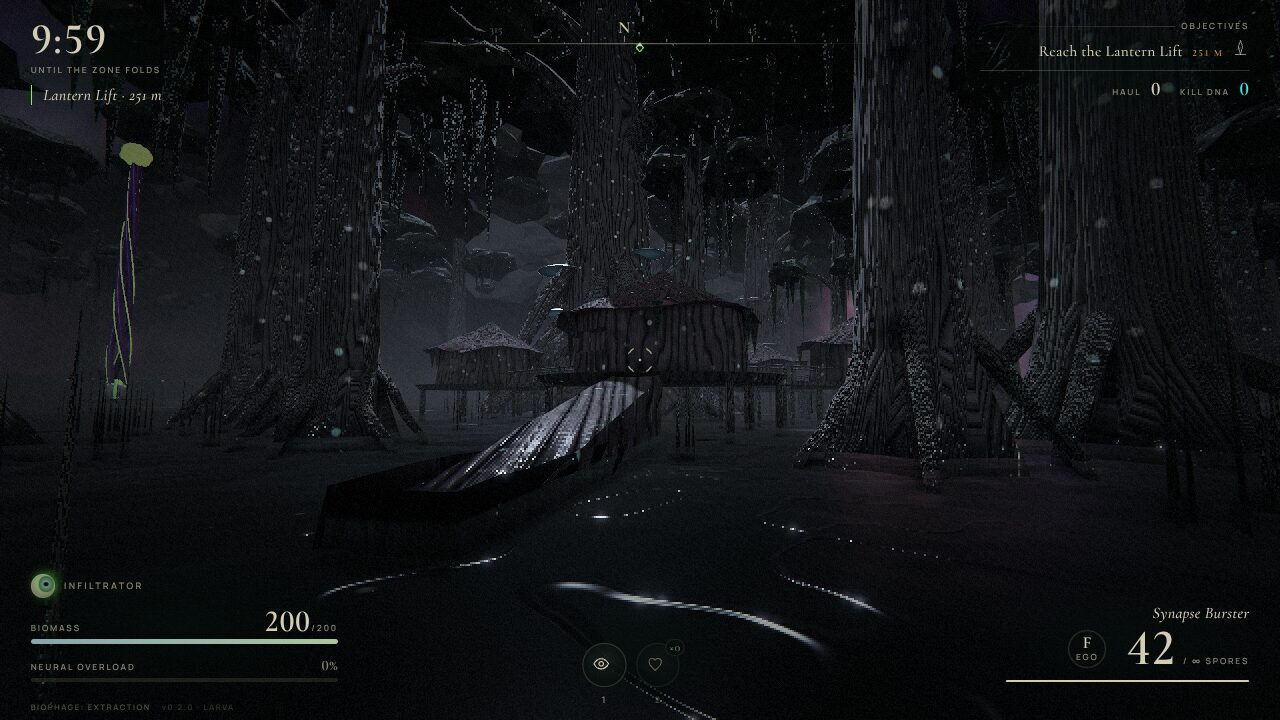
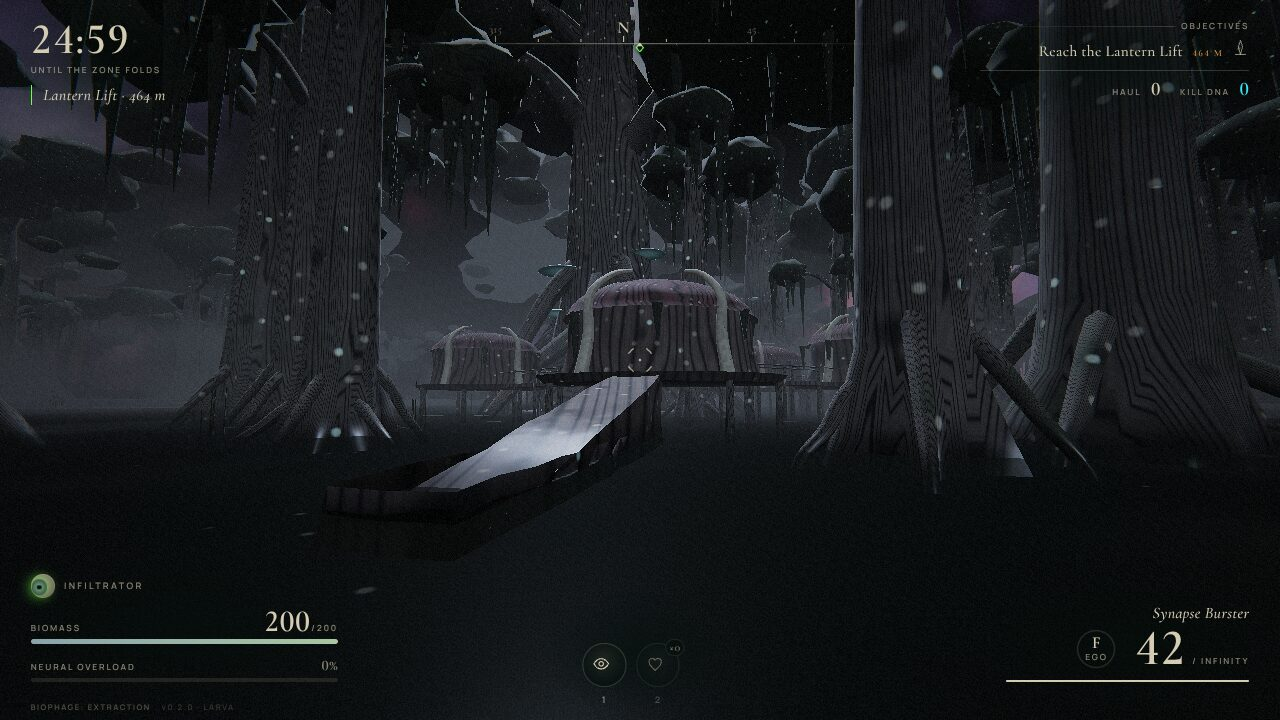
Weeping Fen: stilt huts and the Root Hut become grown, lived-in rooms (#158)
* Weeping Fen: organic pass and brighter light

Walls, decks and posts are rounded, bulged and flared at the base; stilt
platforms have noisy rims; roofs sag between ribs with drooping eaves;
the Regent's Pool arches are bent, knuckled bone spines in weathered
bone. Stronger hemisphere and moon light.

Claude-Session: https://claude.ai/code/session_01Y5Bov4Sf17Ztaq1LjiDfQm

* Weeping Fen: Mushroom Cathedral climb

The Great Spire: shelf-fungus brackets spiral up a giant cap-tree to a
gallery cap at 14 m; a gill bridge slopes down to the Chapel cap on a
second stalk. Webs and egg sacs between the stalks (the Tithe Weavers'
home). Two new loot spots. Walk test climbs the stair and crosses the
bridge; fenCathedral look-dev pose.

Claude-Session: https://claude.ai/code/session_01Y5Bov4Sf17Ztaq1LjiDfQm

* Weeping Fen: grow to Design's 380 m ring

Nine outer districts round the original heart (Titan Gate, Ghost
Orchard, Drowned Causeway, Pale Wallows, Bonewater, The Outflow, East
Tangle, Grey Hummock, North Deep) built from named titans, groves,
islets, channels and log bridges. Extracts move to the edges and a
third (The Outflow) opens at 6 min. Trails from the landing to each
extract stay clear of trees; the walk test follows them. Far wall trees
are drawn lite and reeds scale with radius to keep the cost down.

Claude-Session: https://claude.ai/code/session_01Y5Bov4Sf17Ztaq1LjiDfQm

* Weeping Fen: points of interest in the outer districts
[…]

diff --git a/src/world/weepingfen.ts b/src/world/weepingfen.ts
@@ -10,7 +10,9 @@ import FEN_JSON from '../../data/weepingfen.json';
 import { RAID } from '../../data';
 import { mulberry32 } from './rng';
 import type { Collider } from './collision';
-import { oldBone, type BuiltStructures, type LootSpot } from './structures';
+import { Kit, oldBone, type BuiltStructures, type LootSpot } from './structures';
+import { casket, dressHall, grownHall, hallLight, remainsMesh, sacMesh, urnMesh, worldAt, curtainHalf, type HallOptions } from './buildings';
+import { LivingProps } from './life';
 import type { SiteDressing } from './sites';
 import type { ExtractSite, PodSite, Site, SpawnPlacement, Zone7Layout } from './layout';
 import { SOLIDS, setTerrain } from './zone7';
@@ -374,6 +376,17 @@ export function buildWeepingFen(scene: THREE.Scene, seed: number): FenWorld {
   const mossMass = fenBark({ base: ZONE7_SHADE.moss, deep: ZONE7_SHADE.rockDeep, scale: 1.6 });
   const plank = fenBark({ base: ZONE7_SHADE.stem, deep: ZONE7_SHADE.rockDeep, plank: true, mossy: 0.6, scale: 1.4 });
   const hide = fenBark({ base: ZONE7_SHADE.flesh, deep: ZONE7_SHADE.rockDeep, mossy: 0.8, scale: 2.2 });
+  // Grown rooms (World's hall kit) in the fen's own skin: woven staves for walls, hide for the dome, old bone ribs.
+  // Seen from inside too, so their own two-sided copies.
+  const hallMats = {
+    wall: Object.assign(fenBark({ base: ZONE7_SHADE.stem, deep: ZONE7_SHADE.rockDeep, plank: true, mossy: 0.6, scale: 1.4 }), { side: THREE.DoubleSide }),
+    shell: Object.assign(fenBark({ base: ZONE7_SHADE.flesh, deep: ZONE7_SHADE.rockDeep, mossy: 0.8, scale: 2.2 }), { side: THREE.DoubleSide }),
+    bone: ribBone,
+  };
+  // Things that move inside the rooms: sacs swing, curtains part, urns topple (World's LivingProps).
+  const life = new LivingProps(SOLIDS);
+  root.add(life.group);
+  let hutCount = 0;
   const bone = oldBone(ZONE7.cyan, 0.12);
   const caps = fungusCap(ZONE7.cyan);
   const amber = bioNode(ORGANIC.amber, 0.7);
@@ -624,7 +637,7 @@ export function buildWeepingFen(scene: THREE.Scene, seed: number): FenWorld {
       for (const [y0, y1] of bands) {
         batch.add(bark, trunkGeometry(Rout, elder.height, elder.roots, 13, { y0, y1, theta: [Math.PI / 2 - a0 - seg, seg + 0.01], flare: 0, radial: 3 }), M4(ex, base, ez));
         const inner = new THREE.CylinderGeometry(Rin, Rin, y1 - y0, 3, 2, true, Math.PI / 2 - a0 - seg, seg + 0.01);
-        batch.add(plank, inner, M4(ex, base + (y0 + y1) / 2, ez));
+        batch.add(hallMats.wall, inner, M4(ex, base + (y0 + y1) / 2, ez));
         const mid = (Rin + Rout) / 2;
         solid(null, null, ex + Math.cos(a) * mid, ez + Math.sin(a) * mid, (Rout - Rin) / 2 + 0.1, mid * Math.tan(seg / 2) + 0.15, a, base + y0, base + y1, 0, 'elder-wall');
       }
@@ -675,6 +688,24 @@ export function buildWeepingFen(scene: THREE.Scene, seed: number): FenWorld {
     solid(batch, plank, ex - Math.cos(doorA) * 3.4, ez - Math.sin(doorA) * 3.4, 1.1, 0.6, doorA + Math.PI / 2, base, base + 0.9, 0, 'elder-table');
     loot.push({ id: 'roothut-room', container: lootContainer('roothut-room'), x: ex + Math.cos(doorA + 1.6) * 3, y: base + 0.15, z: ez + Math.sin(doorA + 1.6) * 3 });
     loot.push({ id: 'roothut-lookout', container: lootContainer('roothut-lookout'), x: ex + Math.cos(upperA + Math.PI) * 3, y: base + rh.deck, z: ez + Math.sin(upperA + Math.PI) * 3 });
+    // Lived in (World's kit): curtains in both doorways, sacs hung from each ceiling, urns along the wall, caskets,
+    // and what is left of a dweller slumped under the lookout's windows.
+    const k = new Kit(SOLIDS, ex, ez, 0, base);
+    root.add(k.group);
+    const midR = (Rin + Rout) / 2, gapW = 2 * midR * Math.sin(seg / 2) - 0.3;
+    for (const [sg, y, hgt] of [[doorSeg, 0.05, 3.0], [upperSeg, rh.deck + 0.05, 2.8]] as const) {
+      const a = sg * seg + seg / 2;
+      life.flap(curtainHalf(gapW / 2, hgt, 1, 7 + sg), curtainHalf(gapW / 2, hgt, -1, 9 + sg), worldAt(k, Math.cos(a) * midR, y, Math.sin(a) * midR), Math.PI / 2 - a, gapW, hgt);
+    }
+    const hangAt = (a: number, r: number, top: number, len: number, n: number) =>
+      life.sway(sacMesh(len, 0.3 + (n % 3) * 0.08, 60 + n), worldAt(k, Math.cos(a) * r, top, Math.sin(a) * r), len, 0.45);
+    [[0.9, 2.2, 1.8], [2.4, 3.6, 2.6], [3.6, 2.8, 2.0], [5.0, 3.9, 2.4]].forEach(([da, r, len], n) => hangAt(doorA + da, r, rh.deck - 0.4, len, n));
+    [[1.2, 2.6, 2.6], [2.9, 3.4, 3.2], [4.4, 2.2, 2.8]].forEach(([da, r, len], n) => hangAt(upperA + da, r, top - 0.5, len, n + 4));
+    [doorA + 0.75, doorA + 2.4, doorA - 0.8].forEach((a, n) => life.tip(urnMesh(70 + n), worldAt(k, Math.cos(a) * (Rin - 0.9), 0.15, Math.sin(a) * (Rin - 0.9)), 0.32, 0.9));
+    life.tip(urnMesh(74), worldAt(k, Math.cos(upperA + 2.2) * (Rin - 0.9), rh.deck, Math.sin(upperA + 2.2) * (Rin - 0.9)), 0.32, 0.9);
+    { const a = doorA + Math.PI + 0.95; casket(k, Math.cos(a) * 3.7, Math.sin(a) * 3.7, 0.55, 81, 'roothut-casket'); }
+    { const a = upperA + Math.PI + 1.0, ck = new Kit(SOLIDS, ex, ez, 0, base + rh.deck); root.add(ck.group); casket(ck, Math.cos(a) * 3.5, Math.sin(a) * 3.5, 0.5, 83, 'roothut-lookout-casket'); }
+    { const a = upperA + Math.PI - 1.25, r = remainsMesh(85); r.position.set(Math.cos(a) * 3.8, rh.deck + 0.02, Math.sin(a) * 3.8); r.rotation.y = -a; k.group.add(r); }
   }
 
   // ---- Stilt Village: huts on platforms over the water, boardwalks between, ramps down to the mud.
@@ -684,6 +715,7 @@ export function buildWeepingFen(scene: THREE.Scene, seed: number): FenWorld {
     const hutOf = (id: string) => v.huts.find((h) => h.id === id)!;
     const D = v.deck;
     for (const h of v.huts) {
+      const hi = hutCount++;
       const pr = h.radius + 2.0, yaw = deg(h.yaw);
       const deck = new THREE.CylinderGeometry(pr, pr * 0.94, 0.35, 22, 1);
       { const dp = deck.attributes.position; for (let i = 0; i < dp.count; i++) { const a = Math.atan2(dp.getZ(i), dp.getX(i)), r = Math.hypot(dp.getX(i), dp.getZ(i)); if (r < 0.01) continue; const k = 1 + (noise3(Math.cos(a) * 1.5 + h.x, Math.sin(a) * 1.5, 3) - 0.5) * 0.18; dp.setX(i, dp.getX(i) * k); dp.setZ(i, dp.getZ(i) * k); } deck.computeVertexNormals(); }
@@ -695,34 +727,23 @@ export function buildWeepingFen(scene: THREE.Scene, seed: number): FenWorld {
         batch.add(bark, new THREE.CylinderGeometry(0.16, 0.22, D - g, 6), M4(sx, (D + g) / 2, sz, k));
         SOLIDS.add({ cx: sx, cz: sz, hx: 0.22, hz: 0.22, yaw: 0, y0: g, y1: D - 0.36, tag: 'stilt' });
       }
-      // Walls: grown plank segments in a ring; the door faces the hut's yaw, one window opposite.
-      const N = 12, seg = (Math.PI * 2) / N, wallH = 3;
-      for (let i = 0; i < N; i++) {
-        const a = i * seg + seg / 2 + yaw;
-        const off = Math.abs(Math.atan2(Math.sin(a - yaw), Math.cos(a - yaw)));
-        const bands: [number, number][] = off < seg * 0.6 ? [[2.2, wallH]] : off > Math.PI - seg * 0.6 ? [[0, 1.1], [2.1, wallH]] : [[0, wallH]];
-        for (const [y0, y1] of bands) solid(batch, plank, h.x + Math.cos(a) * h.radius, h.z + Math.sin(a) * h.radius, 0.14, h.radius * Math.tan(seg / 2) + 0.06, a, D + y0, D + y1, 0, `${h.id}-wall`);
+      // A grown room on the deck (World's hall kit in the fen's own staves, hide and bone): the doorway faces the
+      // hut's yaw, sacs hang from the dome, a curtain in the door, urns, a casket and the hut's loot opposite the door.
+      // The Kit is turned so its local +u is the door direction.
+      const k = new Kit(SOLIDS, h.x, h.z, -yaw, D);
+      root.add(k.group);
+      const ho: HallOptions = { u: 0, v: 0, ru: h.radius, rv: h.radius * 0.9, height: 3, doors: [0], doorWidth: 1.9, seed: hi + 5, mats: hallMats };
+      const hall = grownHall(k, ho);
+      dressHall(k, life, hall, ho, 41 + hi * 13, { sacs: 2, urns: 0 });
+      for (const a of [1.9, -2.1]) life.tip(urnMesh(hi * 3 + (a > 0 ? 1 : 2)), worldAt(k, Math.cos(a) * (ho.ru - 1), 0, Math.sin(a) * (ho.rv - 1)), 0.32, 0.9);
+      casket(k, Math.cos(Math.PI - 0.95) * ho.ru * 0.62, Math.sin(Math.PI - 0.95) * ho.rv * 0.62, 0.5, hi + 7, `${h.id}-casket`);
+      if (hi % 2 === 1) { const r = remainsMesh(hi + 11); r.position.set(Math.cos(Math.PI + 1.1) * ho.ru * 0.5, 0.02, Math.sin(Math.PI + 1.1) * ho.rv * 0.5); r.rotation.y = 1.2 + hi; k.group.add(r); }
+      // Moss trailing from the dome's lip.
+      for (let m = 0; m < 7; m++) {
+        const a = (m / 7) * Math.PI * 2 + yaw + 0.3;
+        hanging.push(M4(h.x + Math.cos(a) * (h.radius + 0.7), D + 2.9, h.z + Math.sin(a) * (h.radius + 0.7), a, 0.25, 1 + noise3(m, h.x, 1) * 1.6, 0.25));
       }
-      // Hide-and-thatch roof, moss trailing from the eaves.
-      // A sagging hide-and-thatch roof: the slope dips between its ribs, the eave droops unevenly, the tip leans.
-      const roof = new THREE.ConeGeometry(h.radius + 1.1, 2.8, 28, 7);
-      { const rp = roof.attributes.position, R0 = h.radius + 1.1; for (let i = 0; i < rp.count; i++) {
-        const x = rp.getX(i), y = rp.getY(i), z = rp.getZ(i), r = Math.hypot(x, z) / R0, a = Math.atan2(z, x);
-        const sag = Math.sin(Math.PI * r) * (0.35 + 0.25 * Math.cos(a * 6)) + (noise3(x * 0.8 + h.x, y, z * 0.8) - 0.5) * 0.35;
-        const droop = r > 0.95 ? (noise3(a * 2 + h.z, 1, 2) - 0.3) * 0.7 : 0;
-        const lean = (1.4 - y) / 2.8; // 1 at the eave, 0 at the tip
-        rp.setXYZ(i, x * (1 + (noise3(a * 3, h.x, 5) - 0.5) * 0.15) + (1 - lean) * 0.4, y - sag - droop, z * (1 + (noise3(a * 3, h.z, 6) - 0.5) * 0.15));
-      } roof.computeVertexNormals(); }
-      batch.add(hide, roof, M4(h.x, D + wallH + 1.3, h.z, yaw));
-      for (let k = 0; k < 7; k++) {
-        const a = (k / 7) * Math.PI * 2 + yaw + 0.3;
-        hanging.push(M4(h.x + Math.cos(a) * (h.radius + 0.9), D + wallH - 0.1, h.z + Math.sin(a) * (h.radius + 0.9), a, 0.25, 1 + noise3(k, h.x, 1) * 1.6, 0.25));
-      }
-      if (lit) {
-        const l = new THREE.PointLight(ORGANIC.amber, 6, 9, 2);
-        l.position.set(h.x, D + 2.3, h.z);
-        root.add(l);
-      }
+      if (lit) hallLight(k, 0, 0, 2.4, 11, 10);
       batch.add(amber, new THREE.SphereGeometry(0.16, 8, 6), M4(h.x + Math.cos(yaw + 2.5) * (h.radius - 0.6), D + 2.4, h.z + Math.sin(yaw + 2.5) * (h.radius - 0.6)));
     }
     for (const [a, b] of v.walks) {

diff --git a/tests/weepingfen.test.ts b/tests/weepingfen.test.ts
@@ -112,6 +112,20 @@ describe('the Weeping Fen', () => {
     expect(near(q, t.x, t.z)).toBeGreaterThan(5);
   });
 
+  it('walks into every stilt hut through its doorway to the loot inside, and its grown wall stops you elsewhere', () => {
+    for (const v of [FEN.stiltVillage, ...FEN.hamlets.list]) for (const h of v.huts) {
+      const door = (h.yaw * Math.PI) / 180, at = (a: number, r: number) => ({ x: h.x + Math.cos(a) * r, y: v.deck, z: h.z + Math.sin(a) * r });
+      const doorstep = at(door, h.radius + 1.3);
+      const p = walk(doorstep, [[h.x, h.z], polar(h.x, h.z, door + Math.PI, h.radius - 1.6)]);
+      expect(near(p, ...polar(h.x, h.z, door + Math.PI, h.radius - 1.6)), h.id).toBeLessThan(0.6);
+      expect(p.y, h.id).toBeCloseTo(v.deck, 1);
+      expect(world.structures.loot.filter((l) => FEN.loot.find((e) => e.id === l.id)?.site === h.id).every((l) => Math.hypot(l.x - h.x, l.z - h.z) < h.radius - 0.5), h.id).toBe(true);
+      const back = at(door + Math.PI, h.radius + 1.3);
+      const q = walk(back, [[h.x, h.z]]);
+      expect(near(q, h.x, h.z), h.id).toBeGreaterThan(h.radius - 0.2);
+    }
+  });
+
   it('walks up a Stilt Village ramp onto the boardwalks and across to the far hut', () => {
     const v = FEN.stiltVillage, hut = (id: string) => v.huts.find((h) => h.id === id)!;
     const r = v.ramps[0], A = hut('stiltHutA'), B = hut('stiltHutB'), C = hut('stiltHutC');

diff --git a/src/world/buildings.ts b/src/world/buildings.ts
@@ -30,6 +30,8 @@ export interface HallOptions {
   /** Doorway width (m). */
   doorWidth?: number;
   seed?: number;
+  /** A zone's own wall, dome and rib materials (default: buildingMats()). */
+  mats?: Partial<Pick<BuildingMats, 'wall' | 'shell' | 'bone'>>;
 }
 
 export interface Hall {
@@ -63,7 +65,7 @@ const segs = (ru: number, rv: number) => Math.max(14, Math.round((Math.PI * (ru 
 
 /** An oval grown hall in Kit `k`. Walls collide; the dome does not (nobody reaches it). */
 export function grownHall(k: Kit, o: HallOptions): Hall {
-  const M = buildingMats();
+  const M = { ...buildingMats(), ...o.mats };
   const H = o.height ?? 3.6, dome = o.dome ?? Math.min(o.ru, o.rv) * 0.55, dw = o.doorWidth ?? 2;
   const n = segs(o.ru, o.rv);
   const doors: Hall['doors'] = [];
